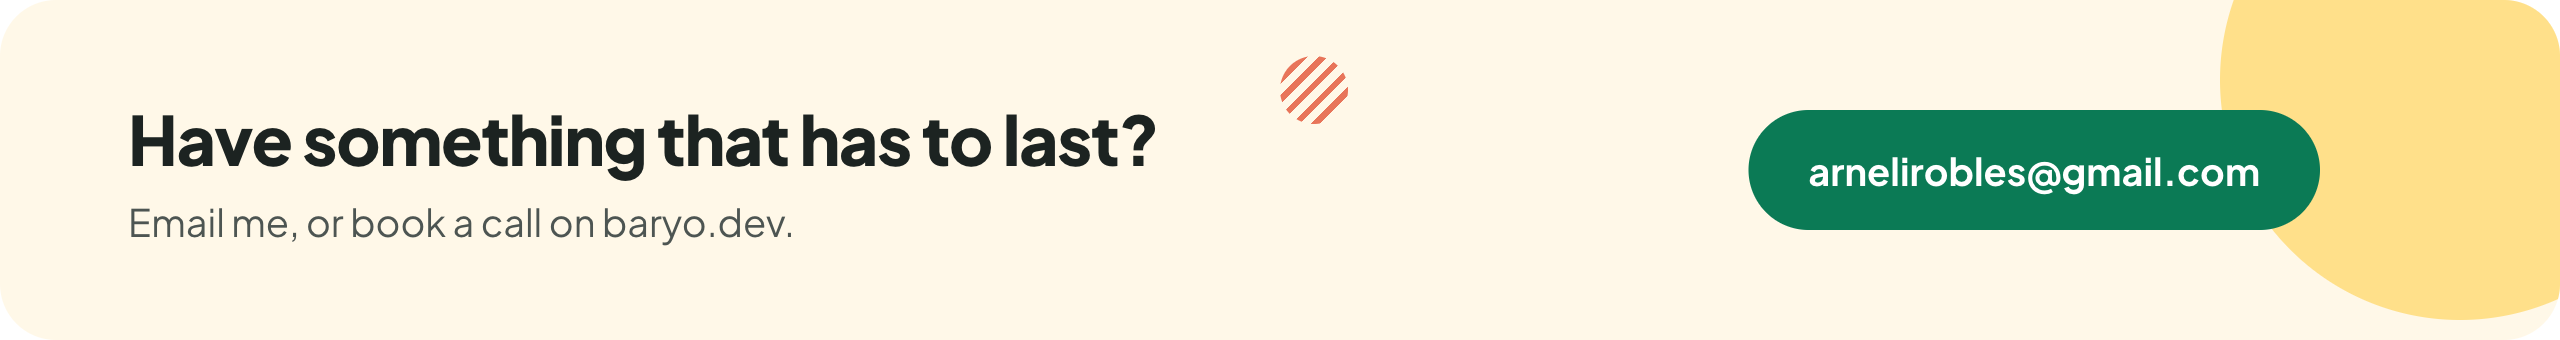
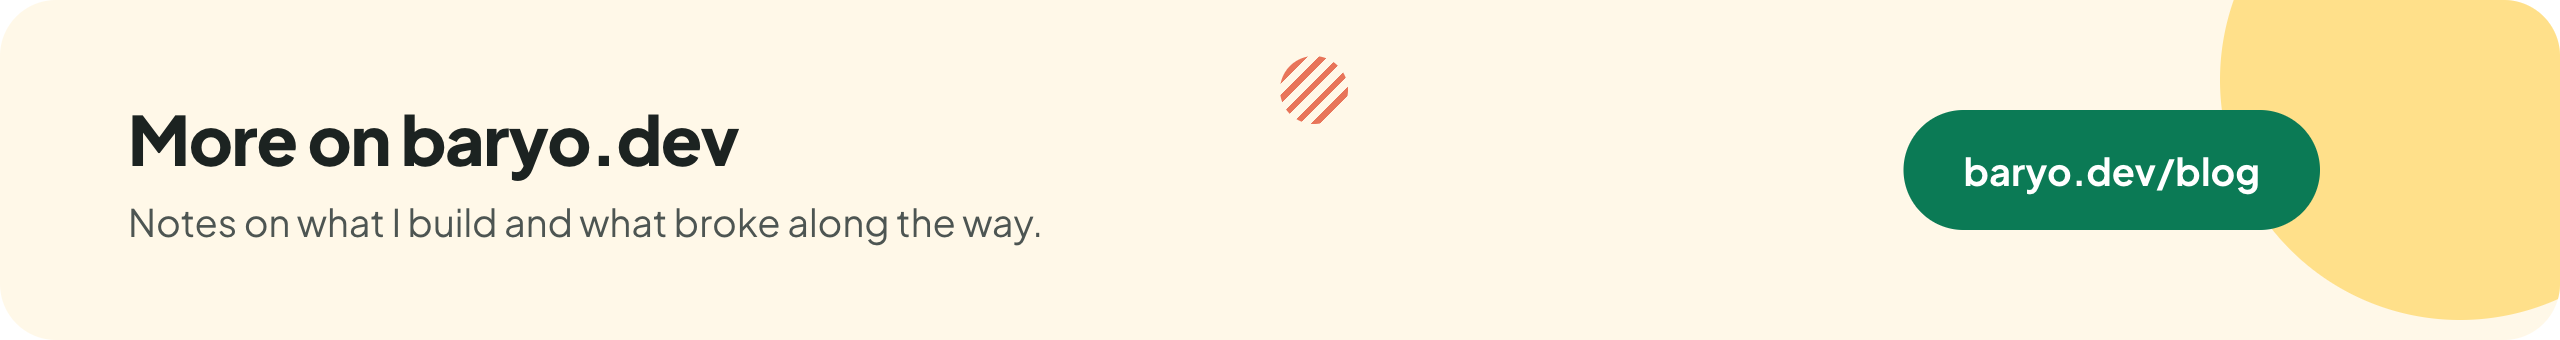
update upstream count, Umbraco packages and writing links
17 merged upstream with Umbraco 24514 and 24515, 41 public repos, barakoCMS 5.5.0, the Umbraco blog packages, writing now on baryo.dev, and the profile no longer asks for work.

Changed region(s): [[0.0312, 0.3235, 0.4688, 0.5294], [0.6562, 0.3235, 0.9062, 0.6765], [0.0312, 0.6176, 0.4062, 0.7059]]

diff --git a/art/build.py b/art/build.py
@@ -28,7 +28,7 @@ HERO = """
   <div class="dots" style="left:640px;top:58px"></div>
   <div class="dots" style="left:600px;top:478px;--c:#e8755a;width:26px;height:26px"></div>
   <div style="position:absolute;left:64px;top:92px;width:640px">
-    <div style="font-size:24px;font-weight:700;color:var(--leaf);letter-spacing:-.01em">Arnel Robles · Software developer &amp; consultant</div>
+    <div style="font-size:24px;font-weight:700;color:var(--leaf);letter-spacing:-.01em">Arnel Robles · Senior full-stack engineer</div>
     <div style="margin-top:14px;font-size:50px;line-height:1.08;font-weight:800;letter-spacing:-.025em">
       I design and build the <span style="color:var(--leaf)">systems a business runs on,</span> then keep them running.</div>
     <div style="margin-top:22px;font-size:19px;line-height:1.6;color:var(--body);max-width:560px">
@@ -52,8 +52,8 @@ SECTION = """
   </div>
 </div>"""
 
-STATS = [("14", "years in production"), ("15", "changes merged upstream"),
-         ("8", "accepted bug reports"), ("31", "public repos at BaryoDev")]
+STATS = [("14", "years in production"), ("17", "changes merged upstream"),
+         ("8", "accepted bug reports"), ("41", "public repos at BaryoDev")]
 
 STATS_HTML = """
 <div class="card" style="background:var(--leaf-dark)">
@@ -70,10 +70,10 @@ CONTACT = """
   <div style="position:absolute;right:-70px;top:-80px;width:240px;height:240px;border-radius:50%;background:var(--sun-soft)"></div>
   <div class="dots" style="left:640px;top:28px;--c:#e8755a"></div>
   <div style="position:absolute;left:64px;top:0;bottom:0;display:flex;flex-direction:column;justify-content:center">
-    <div style="font-size:34px;font-weight:800;letter-spacing:-.02em">Have something that has to last?</div>
-    <div style="margin-top:8px;font-size:19px;color:var(--body)">Email me, or book a call on baryo.dev.</div>
+    <div style="font-size:34px;font-weight:800;letter-spacing:-.02em">More on baryo.dev</div>
+    <div style="margin-top:8px;font-size:19px;color:var(--body)">Notes on what I build and what broke along the way.</div>
   </div>
-  <div style="position:absolute;right:120px;top:50%;transform:translateY(-50%);background:var(--leaf);color:#fff;font-weight:700;font-size:19px;padding:18px 30px;border-radius:999px">arnelirobles@gmail.com</div>
+  <div style="position:absolute;right:120px;top:50%;transform:translateY(-50%);background:var(--leaf);color:#fff;font-weight:700;font-size:19px;padding:18px 30px;border-radius:999px">baryo.dev/blog</div>
 </div>"""
 
 ACCENTS = [("#ffcd3c", "#7cc4a4"), ("#e8755a", "#ffcd3c"), ("#7cc4a4", "#f6a99a"), ("#f08a24", "#7cc4a4")]

diff --git a/README.md b/README.md
@@ -1,13 +1,12 @@
-<a href="https://baryo.dev"><img alt="Arnel Robles, software developer and consultant. I design and build the systems a business runs on, then keep them running." src="assets/hero.png" width="100%"></a>
+<a href="https://baryo.dev"><img alt="Arnel Robles, senior full-stack engineer. I design and build the systems a business runs on, then keep them running." src="assets/hero.png" width="100%"></a>
 
 <p align="center">
   <sub>.NET and PostgreSQL · multi-tenant SaaS · LLM and agent systems · security audits · Philippines, fully remote since 2020</sub>
 </p>
 
 <p align="center">
-  <a href="mailto:arnelirobles@gmail.com?subject=Hello%20from%20your%20GitHub"><img alt="Email me" src="https://img.shields.io/badge/email-arnelirobles%40gmail.com-0b7a55?style=flat-square&logo=gmail&logoColor=white"></a>
   <a href="https://baryo.dev"><img alt="baryo.dev" src="https://img.shields.io/badge/site-baryo.dev-f08a24?style=flat-square"></a>
-  <a href="https://baryodev.medium.com"><img alt="Writing" src="https://img.shields.io/badge/writing-medium-1c2321?style=flat-square&logo=medium"></a>
+  <a href="https://baryo.dev/blog/"><img alt="Blog" src="https://img.shields.io/badge/blog-baryo.dev%2Fblog-1c2321?style=flat-square"></a>
   <a href="https://huggingface.co/arnelirobles"><img alt="Hugging Face" src="https://img.shields.io/badge/models-hugging%20face-ffcd3c?style=flat-square&logo=huggingface&logoColor=black"></a>
 </p>
 
@@ -22,9 +21,7 @@
   <a href="#stack">Stack</a>
 </sub></p>
 
-<img alt="14 years in production, 15 changes merged upstream, 8 accepted bug reports, 31 public repos at BaryoDev" src="assets/stats.png" width="100%">
-
-> **You can contact me at [arnelirobles@gmail.com](mailto:arnelirobles@gmail.com?subject=Hello%20from%20your%20GitHub).**
+<img alt="14 years in production, 17 changes merged upstream, 8 accepted bug reports, 41 public repos at BaryoDev" src="assets/stats.png" width="100%">
 
 ---
 
@@ -35,12 +32,13 @@ In 30 seconds:
 - **I design platforms.** [barakoCMS](https://github.com/BaryoDev/barakoCMS) is a multi-tenant, metadata-driven data platform on .NET and PostgreSQL, with its console, renderer, client and deploy tool, all public and all running.
 - **I ship LLM and agent systems** that respect permissions and get checked by something other than a person's say-so.
 - **I audit web applications** against OWASP WSTG and ASVS and hand back a report ranked by what to fix first.
-- **Fifteen changes merged upstream** in Umbraco, Marten and Testcontainers, nearly all for a bug my own projects hit.
+- **Seventeen changes merged upstream** in Umbraco, Marten and Testcontainers, nearly all for a bug my own projects hit. Tagged as an Umbraco contributor.
+- **Ten Umbraco 17 packages on NuGet**, built for my own blog and shared, from a PWA to comments, analytics and post alerts.
 
 <a id="the-platform-i-design-and-run"></a>
 <img alt="The platform I design and run" src="assets/section-platform.png" width="100%">
 
-**[barakoCMS](https://github.com/BaryoDev/barakoCMS)** is an open-source data platform for .NET 10 on PostgreSQL. Customers define their own content types, fields, choice lists and references at runtime through the API, and tenant isolation, roles, field-level masking and audit apply to all of it. Event-sourced on Marten, so every change is on record. An event-driven workflow engine, 16 opt-in modules, and about 4,900 test methods run against real PostgreSQL and SeaweedFS through Testcontainers. MPL-2.0, currently 5.3.0.
+**[barakoCMS](https://github.com/BaryoDev/barakoCMS)** is an open-source data platform for .NET 10 on PostgreSQL. Customers define their own content types, fields, choice lists and references at runtime through the API, and tenant isolation, roles, field-level masking and audit apply to all of it. Event-sourced on Marten, so every change is on record. An event-driven workflow engine, 16 opt-in modules, and about 4,900 test methods run against real PostgreSQL and SeaweedFS through Testcontainers. MPL-2.0, currently 5.5.0.
 
 The decisions are the work. Event sourcing over CRUD, and what that costs on the read side. Modules compiled in rather than loaded at runtime, because a plugins folder is a place where writing a file runs code. One cheap VM instead of a platform, and what that trades away. Each is written up with the reasoning, not just the outcome.
 
@@ -89,15 +87,15 @@ Broken access control and IDOR (an id from the URL used to load or mutate anothe
 <a id="open-source-contributor"></a>
 <img alt="Open source contributor" src="assets/section-upstream.png" width="100%">
 
-<a href="https://github.com/search?q=author%3Aarnelirobles+type%3Apr+is%3Amerged+org%3Aumbraco+org%3Atestcontainers+org%3AJasperFx&type=pullrequests"><img alt="15 merged upstream" src="https://img.shields.io/badge/upstream-15%20merged-0b7a55?style=flat-square&logo=github"></a>
+<a href="https://github.com/search?q=author%3Aarnelirobles+type%3Apr+is%3Amerged+org%3Aumbraco+org%3Atestcontainers+org%3AJasperFx&type=pullrequests"><img alt="17 merged upstream" src="https://img.shields.io/badge/upstream-17%20merged-0b7a55?style=flat-square&logo=github"></a>
 <a href="https://github.com/search?q=author%3Aarnelirobles+type%3Aissue+org%3Aumbraco+org%3Atestcontainers+org%3AJasperFx&type=issues"><img alt="8 accepted bug reports" src="https://img.shields.io/badge/bug%20reports%20accepted-8-f08a24?style=flat-square&logo=github"></a>
-<a href="https://github.com/BaryoDev"><img alt="31 public repositories" src="https://img.shields.io/badge/%40BaryoDev-31%20public%20repos-c2461a?style=flat-square&logo=github"></a>
+<a href="https://github.com/BaryoDev"><img alt="41 public repositories" src="https://img.shields.io/badge/%40BaryoDev-41%20public%20repos-c2461a?style=flat-square&logo=github"></a>
 
-**Fifteen merged changes and eight accepted bug reports** in libraries I run in production, across four repos totalling 13k stars. Most started from a bug I hit in my own projects rather than from browsing a tracker for something to fix. The badges are live searches, so they answer for themselves.
+**Seventeen merged changes and eight accepted bug reports** in libraries I run in production, across four repos totalling 13k stars. Most started from a bug I hit in my own projects rather than from browsing a tracker for something to fix. The badges are live searches, so they answer for themselves.
 
 | Project | What was wrong |
 |---|---|
-| **[umbraco/Umbraco-CMS](https://github.com/umbraco/Umbraco-CMS)**<br><sub>★5.3k</sub> | Instances sharing a database failed each other's requests registering the same OpenIddict application. [#23599](https://github.com/umbraco/Umbraco-CMS/pull/23599), [#23727](https://github.com/umbraco/Umbraco-CMS/pull/23727), shipped in 17.7 and 18.2. A disabled or locked out user kept a valid back-office cookie, so they were issued fresh tokens and landed in an empty back office where every call returned 403 and there was no way to log out. [#23995](https://github.com/umbraco/Umbraco-CMS/pull/23995) signs them out instead, in the 17.8 and 18.3 release candidates |
+| **[umbraco/Umbraco-CMS](https://github.com/umbraco/Umbraco-CMS)**<br><sub>★5.3k</sub> | Instances sharing a database failed each other's requests registering the same OpenIddict application. [#23599](https://github.com/umbraco/Umbraco-CMS/pull/23599), [#23727](https://github.com/umbraco/Umbraco-CMS/pull/23727), shipped in 17.7 and 18.2. A disabled or locked out user kept a valid back-office cookie, so they were issued fresh tokens and landed in an empty back office where every call returned 403 and there was no way to log out. [#23995](https://github.com/umbraco/Umbraco-CMS/pull/23995) signs them out instead. On SQLite, the Delivery API returned create and update dates without the UTC marker, so clients read them as local time; I traced it to a refactor in 18.0 that dropped the UTC conversion. [#24514](https://github.com/umbraco/Umbraco-CMS/pull/24514). Removing media URLs from rich text on save also dropped the image's other attributes. [#24515](https://github.com/umbraco/Umbraco-CMS/pull/24515), where the reviewer found the same bug in the restore path and fixed it alongside |
 | **[testcontainers/testcontainers-dotnet](https://github.com/testcontainers/testcontainers-dotnet)**<br><sub>★4.4k</sub> | MongoDB replica-set init was not idempotent, so a reused container hung against a one-hour timeout. [#1731](https://github.com/testcontainers/testcontainers-dotnet/pull/1731), [#1735](https://github.com/testcontainers/testcontainers-dotnet/pull/1735). A reused Couchbase container then stalled on the first step of configuring a cluster that was already configured. [#1736](https://github.com/testcontainers/testcontainers-dotnet/pull/1736). Confluent Platform 8.x images exited on startup because the module left a trailing comma in the advertised listeners, which Kafka 4 rejects. [#1772](https://github.com/testcontainers/testcontainers-dotnet/pull/1772). With that fixed, they still defaulted to ZooKeeper, which 8.x removed. [#1775](https://github.com/testcontainers/testcontainers-dotnet/pull/1775). The docs never said how builder calls combine, so setting your own startup callback on a module silently replaced its provisioning, and MongoDB never initiated its replica set. [#1770](https://github.com/testcontainers/testcontainers-dotnet/pull/1770) documents the rules on a page of their own |
 | **[JasperFx/marten](https://github.com/JasperFx/marten)**<br><sub>★3.5k</sub> | `HardDeleteWhere` could not remove already soft-deleted rows, and returned cleanly either way. [#5215](https://github.com/JasperFx/marten/pull/5215), [#5202](https://github.com/JasperFx/marten/pull/5202), [#5240](https://github.com/JasperFx/marten/pull/5240). The parameterised `MatchesJsonPath` overload threw on every call, so no one could have been using it. [#5289](https://github.com/JasperFx/marten/pull/5289). The pgvector docs still described a recall cap the library had stopped applying, and the caveat that replaced it was wrong for hybrid search. [#5467](https://github.com/JasperFx/marten/pull/5467) |
 | **[JasperFx/jasperfx](https://github.com/JasperFx/jasperfx)**<br><sub>core library</sub> | The event loader claimed a ceiling it had never scanned, so a fully skipped batch could advance past events and lose them permanently. Reported on Marten, then fixed at the source. [#670](https://github.com/JasperFx/jasperfx/pull/670) |
@@ -129,7 +127,7 @@ The open source is the visible half. The other half is client and product work, 
 | **Case and document workflow** | ASP.NET Core and EF Core behind a React front end for a national dispute resolution body, handling case and document workflows. Azure Functions, App Services and Storage, with CI/CD on Azure DevOps. Also maintained and extended an Umbraco CMS platform, which is where the upstream contributions started. |
 | **Gaming management and analytics** | Led the early build of a casino management and analytics platform on .NET, React and SQL Server, running the development and QA teams and owning the release pipelines. |
 | **Enterprise and healthcare integration** | .NET and Java integrations across ERP, financial, materials and payroll systems at a large agribusiness, plus hospital and national health insurance systems. SOAP and XML services, SSIS between AS400 DB2 and SQL Server, and AS400 administration at 24/7 availability. |
-| **Independent client delivery** | Feature and defect delivery across established codebases, middleware, third-party and Stripe payment integrations in JavaScript for a client platform. Took a production application from .NET 8 to .NET 10 with its ORM and test framework, 651 tests passing. |
+| **Independent client delivery** | Feature and defect delivery across established codebases, middleware, third-party and Stripe payment integrations in JavaScript for a client platform. Took a production application to .NET 9 along with its ORM and test framework. |
 
 Modernisation is a thread through most of it: ASP.NET MVC and AngularJS onto current .NET with the business running throughout, VB6 rebuilt on ASP.NET Core, and a large Oracle schema moved to PostgreSQL behind a live application to remove the licensing cost.
 
@@ -138,7 +136,7 @@ Fully remote, across distributed teams in several time zones. Alongside the buil
 <a id="libraries-and-tools"></a>
 <img alt="Libraries and tools" src="assets/section-libraries.png" width="100%">
 
-31 public repositories under [@BaryoDev](https://github.com/BaryoDev). Each solves one problem, ships to a package registry, and is tested rather than described.
+41 public repositories under [@BaryoDev](https://github.com/BaryoDev). Each solves one problem, ships to a package registry, and is tested rather than described.
 
 #### .NET
 
@@ -149,8 +147,9 @@ Fully remote, across distributed teams in several time zones. Alongside the buil
 | **[Carom](https://github.com/BaryoDev/Carom)** | Resilience: retry, timeout, circuit breaker, bulkhead, rate limiting, fallback, hedging. Zero dependencies in the core, netstandard2.0 upward. |
 | **[Talaan](https://github.com/BaryoDev/Talaan)** | Spreadsheet and CSV reader, xlsx and CSV, zero dependencies. barakoCMS consumes it as a published package rather than a project reference, so the packaging is exercised for real. |
 | **[Vouch](https://github.com/BaryoDev/Vouch)** | Fluent assertions with no dependencies: the `.Should()` surface of FluentAssertions under MPL-2.0, 0.1.0. References no test framework, so it works under xUnit, NUnit and MSTest. |
-| **[umbraco-pwa](https://github.com/BaryoDev/umbraco-pwa)** | Turns an Umbraco site into an installable, offline-capable app. On the Umbraco Marketplace, 0.5.2 on NuGet. |
+| **[umbraco-pwa](https://github.com/BaryoDev/umbraco-pwa)** | Turns an Umbraco site into an installable, offline-capable app. On the Umbraco Marketplace, 0.6.0 on NuGet, with merged pull requests from two outside contributors. |
 | **[umbraco-read-aloud](https://github.com/BaryoDev/umbraco-read-aloud)** | Read-aloud for an Umbraco site using Microsoft Edge neural voices. |
+| **Umbraco 17 blog packages** | Built for baryo.dev and published on NuGet: [Comments](https://github.com/BaryoDev/umbraco-comments), [Analytics](https://github.com/BaryoDev/umbraco-analytics) (cookie-free), [ShareLike](https://github.com/BaryoDev/umbraco-share-like), [RelatedPosts](https://github.com/BaryoDev/umbraco-related-posts), [SocialPost](https://github.com/BaryoDev/umbraco-social-post), [PostAlerts](https://github.com/BaryoDev/umbraco-post-alerts) (weekly email digest and web push), [MediumImport](https://github.com/BaryoDev/BaryoDev.Umbraco.MediumImport) and [AiAssistant](https://github.com/BaryoDev/BaryoDev.Umbraco.AiAssistant). |
 
 #### TypeScript and JavaScript
 
@@ -178,16 +177,17 @@ Mostly postmortems of my own mistakes, and decisions with the reasoning attached
 
 | Article | About |
 |---|---|
-| [My benchmark said my library was 2x faster. It was not.](https://baryodev.medium.com/my-benchmark-said-my-library-was-2x-faster-it-was-not-d6a6110bf354) | A performance gate that could not have failed for its own reason, and what it took to make it resolve what it reports |
-| [We built a modular CMS and deliberately did not make the modules plugins](https://baryodev.medium.com/we-built-a-modular-cms-and-deliberately-did-not-make-the-modules-plugins-66a30c79b1e5) | Runtime assembly loading forecloses Native AOT permanently, and a plugins folder is a place where writing a file runs code |
-| [Your ORM is reading your lambdas with a regex](https://javascript.plainenglish.io/your-orm-is-reading-your-lambdas-with-a-regex-c1ebaede899d) | What lambda-parsing query builders actually do, and where that breaks |
-| [Migrating from Polly to Carom](https://medium.com/codetodeploy/migrating-from-polly-to-carom-04791978a963) | The Polly maintenance fee is reasonable, the mechanism is the problem, and here is a pattern-by-pattern migration |
-| [Mapsicle 2.1: honest numbers against AutoMapper](https://baryodev.medium.com/mapsicle-2-1-an-mpl-2-0-object-mapper-and-honest-numbers-against-automapper-fc0f726369dd) | Two architectures, medians of repeated runs, and a section on where it loses |
-| [The tenant filter that only worked on the way in](https://baryodev.medium.com/the-tenant-filter-that-only-worked-on-the-way-in-3bad8544d165) | A multi-tenant event-sourcing bug that reads correctly and leaks on the way out |
-| [One cheap VM, nineteen containers, no platform](https://medium.com/codetodeploy/one-cheap-vm-nineteen-containers-no-platform-5e76ff4e5c68) | What running everything on one box costs, and what it saves |
-| [What two hundred issues taught us about building with AI](https://javascript.plainenglish.io/what-two-hundred-issues-taught-us-about-building-with-ai-e6b315bf59ad) | Where AI-assisted work fails quietly, and which gates catch it |
+| [Mapsicle 1.3.0: my benchmark said 2x faster, and it was not](https://baryo.dev/blog/my-benchmark-said-my-library-was-2x-faster-it-was-not/) | A performance gate that could not have failed for its own reason, and what it took to make it resolve what it reports |
+| [barakoCMS modules are NuGet packages, not plugins, on purpose](https://baryo.dev/blog/we-built-a-modular-cms-and-deliberately-did-not-make-the-modules-plugins/) | Runtime assembly loading forecloses Native AOT permanently, and a plugins folder is a place where writing a file runs code |
+| [Your JavaScript ORM reads lambdas with a regex (rnxORM did too)](https://baryo.dev/blog/your-orm-is-reading-your-lambdas-with-a-regex/) | What lambda-parsing query builders actually do, and where that breaks |
+| [Migrating from Polly to Carom](https://baryo.dev/blog/migrating-from-polly-to-carom/) | A pattern-by-pattern migration |
+| [Mapsicle 2.1, benchmarked against AutoMapper](https://baryo.dev/blog/mapsicle-2-1-an-mpl-2-0-object-mapper-and-honest-numbers-against-automapper/) | Two architectures, medians of repeated runs, and a section on where it loses |
+| [Marten event masking: erasing one tenant destroyed another's data](https://baryo.dev/blog/the-tenant-filter-that-only-worked-on-the-way-in/) | A multi-tenant event-sourcing bug that reads correctly and leaks on the way out |
+| [BaryoVM: nineteen containers on one cheap VM](https://baryo.dev/blog/one-cheap-vm-nineteen-containers-no-platform/) | What running everything on one box costs, and what it saves |
+| [What 202 BaryoDev issues taught us about building with AI](https://baryo.dev/blog/what-two-hundred-issues-taught-us-about-building-with-ai/) | Where AI-assisted work fails quietly, and which gates catch it |
+| [Building five Umbraco 17 packages on .NET 10](https://baryo.dev/blog/building-five-umbraco-17-packages-on-net-10/) | Comments, analytics, likes, related posts and social posting for my own blog, and how they fit together |
 
-More at [baryodev.medium.com](https://baryodev.medium.com).
+More at [baryo.dev/blog](https://baryo.dev/blog/). Posts tagged Umbraco also appear on the Umbraco community blog.
 
 <a id="how-i-work"></a>
 <img alt="How I work" src="assets/section-how.png" width="100%">
@@ -230,8 +230,8 @@ Some of this touches systems and data that aren't mine. I stay inside what I'm a
 
 ---
 
-<a href="mailto:arnelirobles@gmail.com?subject=Hello%20from%20your%20GitHub"><img alt="Have something that has to last? Email arnelirobles@gmail.com, or book a call on baryo.dev." src="assets/contact.png" width="100%"></a>
+<a href="https://baryo.dev/blog/"><img alt="More on baryo.dev: notes on what I build and what broke along the way." src="assets/contact.png" width="100%"></a>
 
 <p align="center">
-  <a href="mailto:arnelirobles@gmail.com?subject=Hello%20from%20your%20GitHub">arnelirobles@gmail.com</a> · <a href="https://baryo.dev">baryo.dev</a> · <a href="https://baryodev.medium.com">baryodev.medium.com</a>
+  <a href="https://baryo.dev">baryo.dev</a> · <a href="https://baryo.dev/blog/">blog</a> · <a href="https://github.com/BaryoDev">@BaryoDev</a> · <a href="https://huggingface.co/arnelirobles">Hugging Face</a>
 </p>
